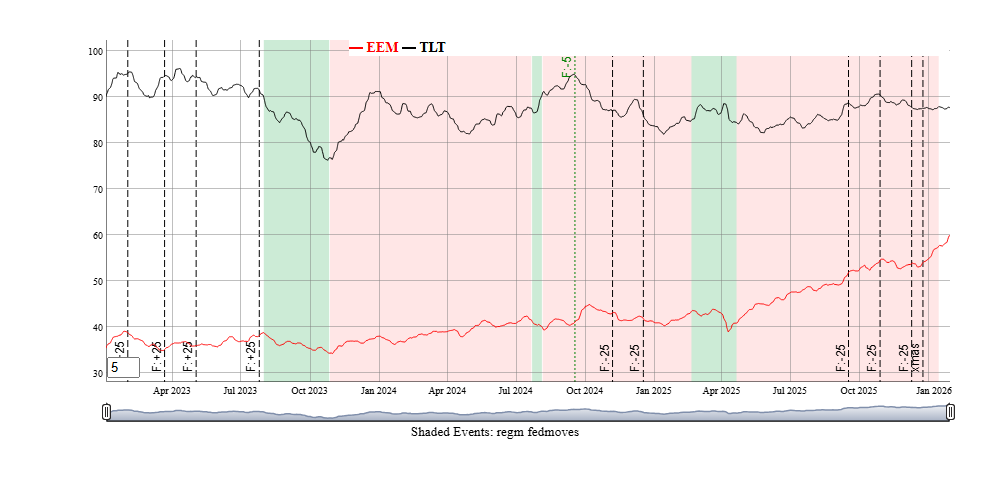
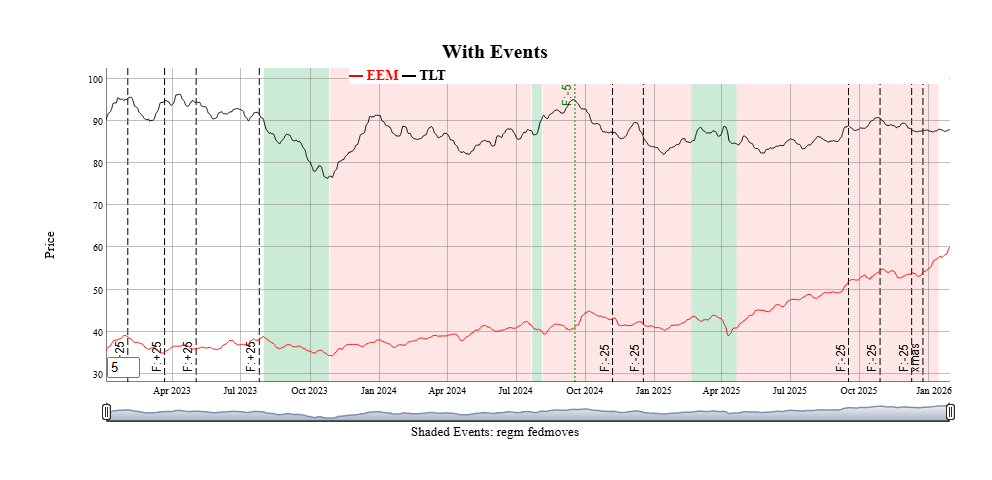
Formatting

diff --git a/README.md b/README.md
@@ -1,15 +1,6 @@
 
 <!-- README.md is generated from README.Rmd. Please edit that file -->
 
-``` r
-knitr::opts_chunk$set(
-  collapse = TRUE,
-  comment = "#>",
-  fig.path = "man/figures/README-",
-  out.width = "100%"
-)
-```
-
 # FinanceGraphs
 
 <!-- badges: start -->
@@ -112,7 +103,9 @@ fgts_dygraph(eqtypx, dtstartfrac=0.8,hilightcols="IBM",hilightwidth=4,roller=3)
 ``` r
 toplot <- reerdta[REGION=="LATAM",.(cop=sum(value*(variable=="COL")),
                reer=mean(value),reer.lo=min(value),reer.hi=max(value)),by=.(date)]
-fgts_dygraph(toplot,title="COP REER vs Latam peers",roller=3,hilightcols="cop",hilightwidth=4,annotations="last,linevalue")
+fgts_dygraph(toplot,title="COP REER vs Latam peers",ylab="Price",
+             roller=3,hilightcols="cop",
+             hilightwidth=4,annotations="last,linevalue")
 ```
 
 <img src="man/figures/README-simple_example3-1.png" alt="Hi/Lo series, used to show currency values against local peers" width="100%" />
@@ -138,7 +131,7 @@ be added together with semicolons, as in the following example:
 
 ``` r
 smalldta <- eqtypx[date>=as.Date("2023-01-01"),.(date,TLT,EEM)]
-fgts_dygraph(smalldta,events="doi,regm;doi,fedmoves;date,xmas,2025-12-25")
+fgts_dygraph(smalldta,title="With Events",ylab="Price",events="doi,regm;doi,fedmoves;date,xmas,2025-12-25")
 ```
 
 <img src="man/figures/README-Events1-1.png" alt="Graph of Equity Prices showing Event styles" width="100%" />
@@ -174,15 +167,13 @@ fgts_dygraph(smalldta,title="Equity Prices w Sentiment",event_ds=events_consumer
 <img src="man/figures/README-Events2-1.png" alt="Graph of equity prices showing sentiment ranges" width="100%" />
 Current event helpers are:
 
-- \[fg_findTurningPoints()\] Statistically identify possible turning
-  points in a series
-- \[fg_ratingsEvents()\] Add colored ranges based on analyst credit
-  ratings
-- \[fg_cut_to_events()\] “cut” a univariate series into colored bands,
-  with two different colors for positive and negative values.
-- \[fg_tq_divs()\] Add dividend events from TidyQuant dividend data
-- \[fg_av_earnings()\] Add earnings events from AlphaVantage earnings
-  data
+| Function | Description |
+|:---|:---|
+| `fg_findTurningPoints()` | Statistically identify turning points in a series. |
+| `fg_ratingsEvents()` | Add colored ranges based on analyst credit ratings. |
+| `fg_cut_to_events()` | “Cut” a univariate series into colored bands, with two different colors for positive and negative values. |
+| `fg_tq_divs()` | Add dividend events from TidyQuant dividend data |
+| `fg_av_earnings()` | Add earnings events from AlphaVantage earnings data |
 
 ## Forecasts
 
